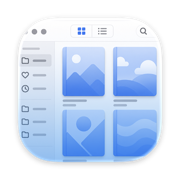
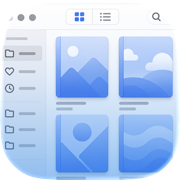
fix(4.2c-11): iOS フルブリードアイコン採用で iOS ホーム画面アイコンを正常化(B2)
smoke v1 B2 NG: macOS版アイコン(余白付き squircle)を apple-touch-icon に
流用したため、iOS の追加時マスクで「枠の中に小さい絵」になっていた。
- apple-touch-icon(180) / PWA manifest(192/512) を iOS 版フルブリード
  (icon-iOS-Default-1024)から再生成。
- ブラウザタブ favicon は小サイズ視認性のため簡略版 32px(favicon-32.png)を追加。

Claude-Session: https://claude.ai/code/session_01WdUcCqbdTGwtWrBCQuZzFJ

diff --git a/Sources/LibraryServer/Resources/web/index.html b/Sources/LibraryServer/Resources/web/index.html
@@ -9,8 +9,9 @@
   <meta name="apple-mobile-web-app-status-bar-style" content="black-translucent">
   <meta name="apple-mobile-web-app-title" content="StackNest">
   <title>StackNest</title>
-  <!-- 4.2c-11: ブラウザタブ favicon・iOS ホーム追加アイコン・PWA manifest（アプリアイコンと同一） -->
-  <link rel="icon" type="image/png" href="icon-512.png">
+  <!-- 4.2c-11: ブラウザタブ favicon（小サイズは簡略版・大サイズは iOS フルブリード）/ iOS ホーム追加アイコン / PWA manifest -->
+  <link rel="icon" type="image/png" sizes="32x32" href="favicon-32.png">
+  <link rel="icon" type="image/png" sizes="512x512" href="icon-512.png">
   <link rel="apple-touch-icon" href="icon-180.png">
   <link rel="manifest" href="manifest.json">
   <link rel="stylesheet" href="style.css">
